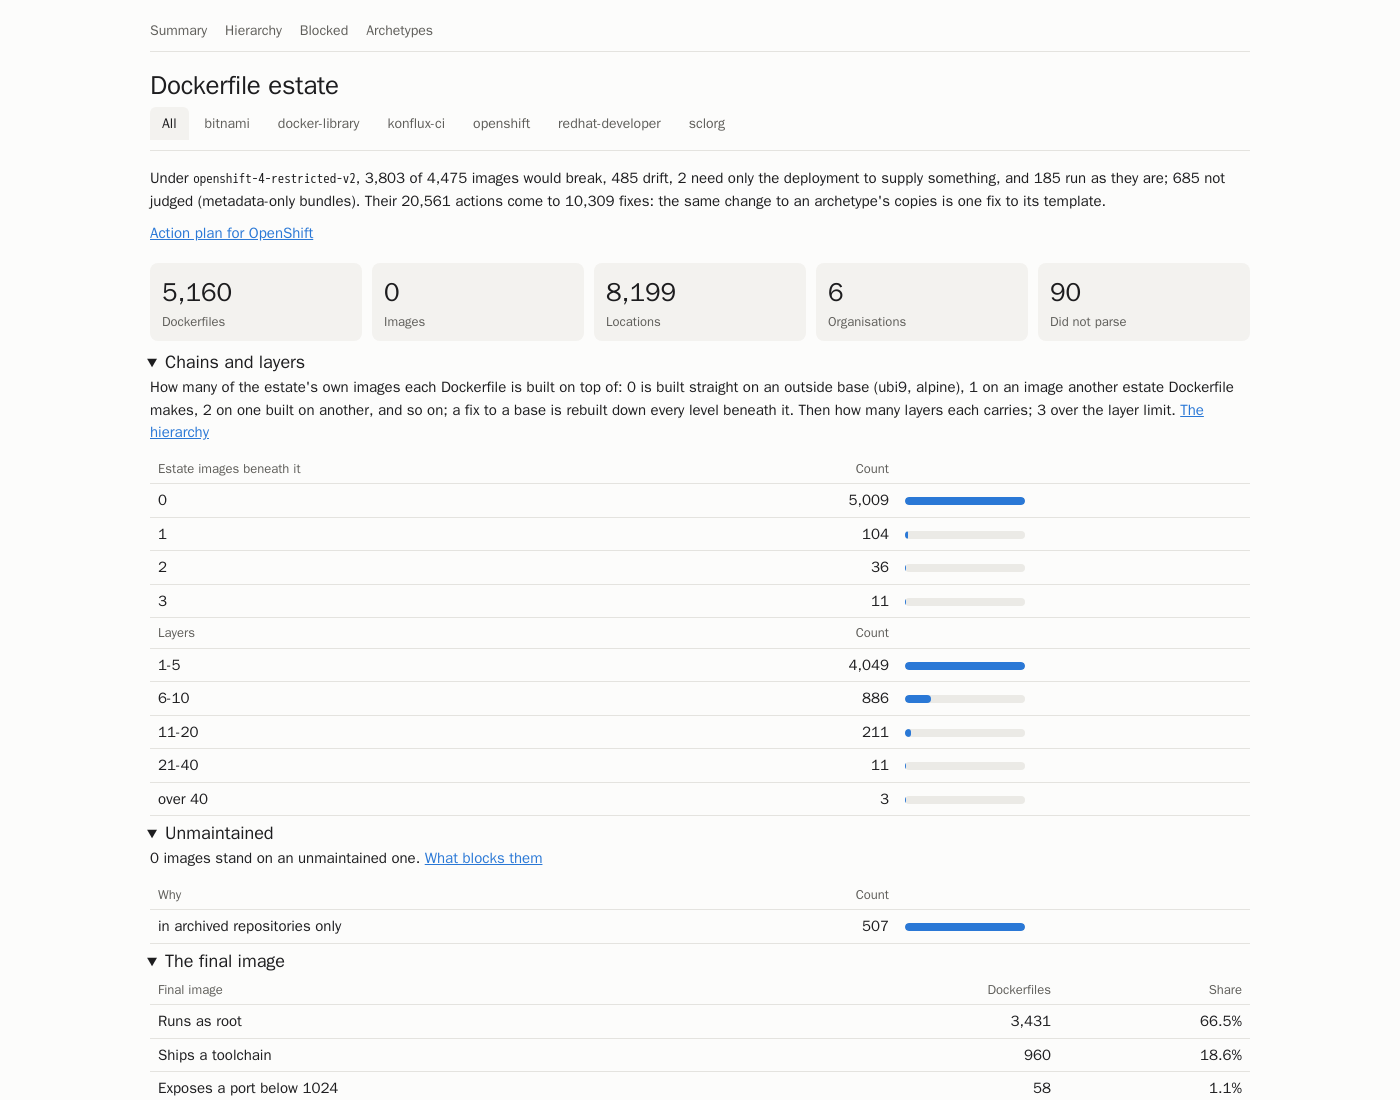
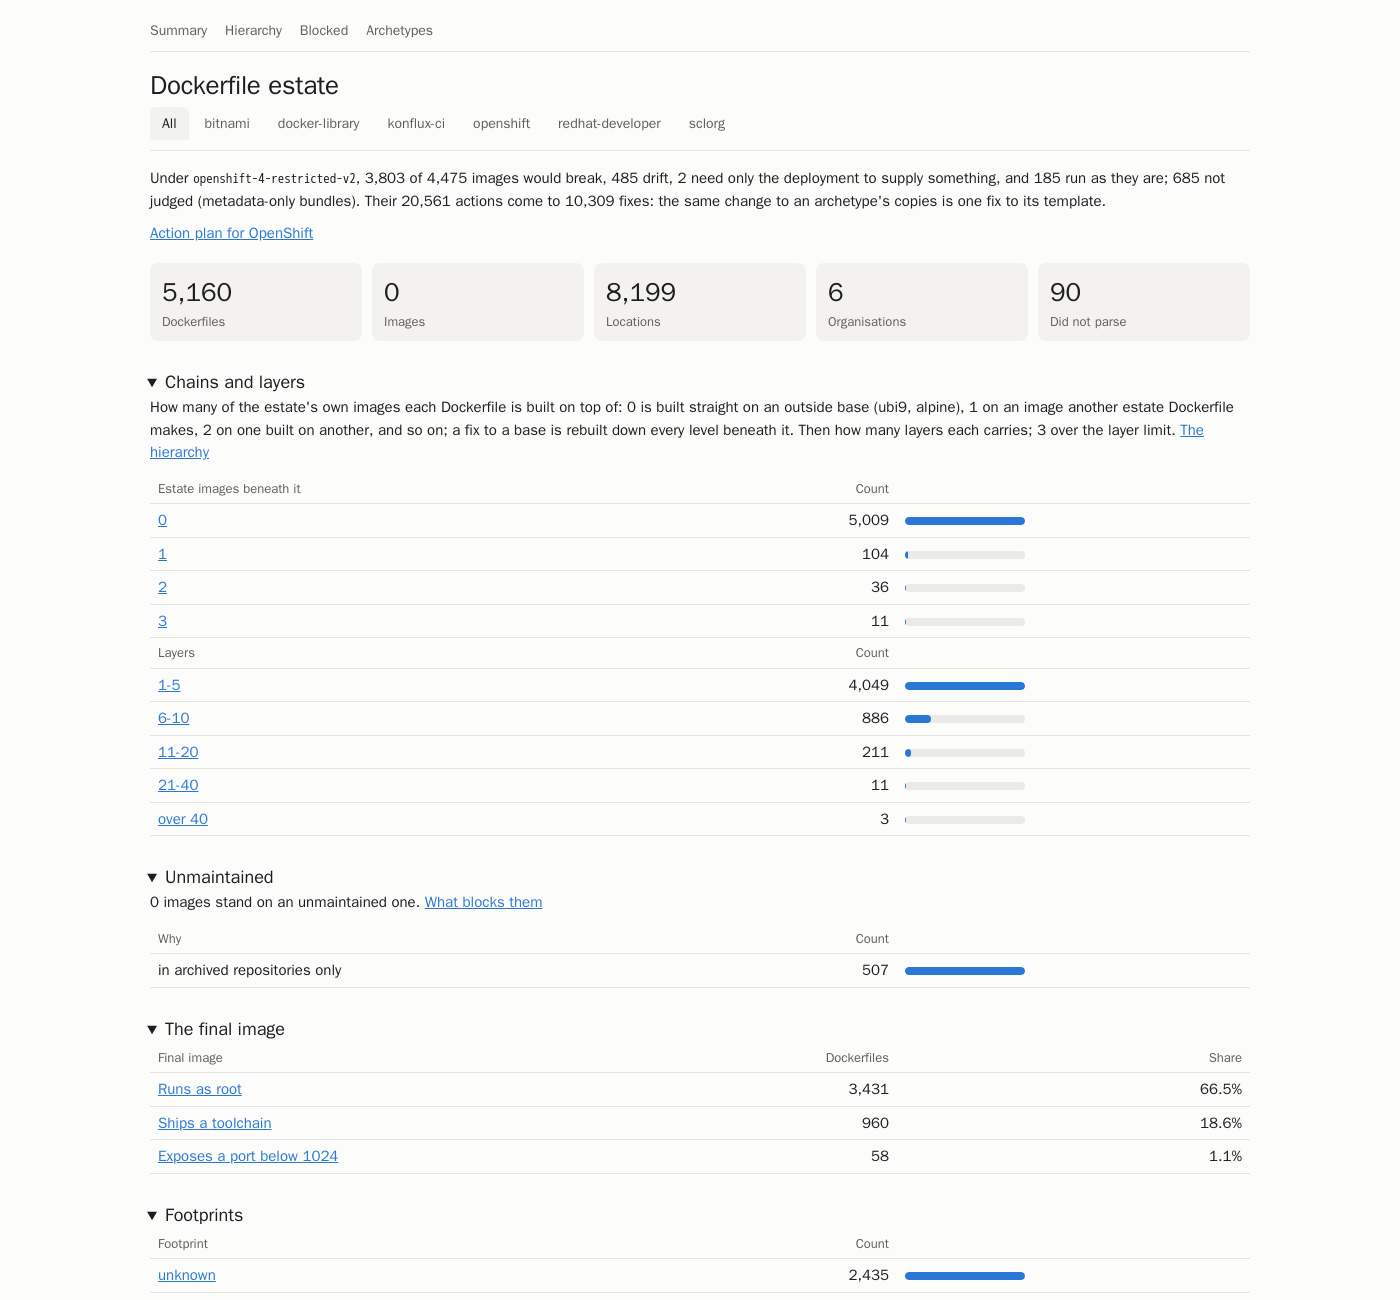
Count the programs each archetype starts, line up every count table, space the sections
An archetype stays a recipe; Programs counts the different start commands its
Dockerfiles have, and a Dockerfile's page splits the rest of its recipe into those
starting the same program and those starting another. The count tables share one
column width for their counts, sections have space between them, and the archetype
text says what an archetype is.

diff --git a/report/src/main/java/io/github/fiftieshousewife/dockerfileinventory/report/Pages.java b/report/src/main/java/io/github/fiftieshousewife/dockerfileinventory/report/Pages.java
@@ -28,6 +28,8 @@ final class Pages {
         Map<String, String> pages = new LinkedHashMap<>();
         Set<String> catalogued = entries.stream().map(CatalogueEntry::blobSha).collect(Collectors.toSet());
         List<String> organisations = List.copyOf(byOrganisation.keySet());
+        Map<String, String> programs = entries.stream().filter(entry -> Programs.of(entry) != null)
+                .collect(Collectors.toMap(CatalogueEntry::blobSha, Programs::of, (a, b) -> a));
         pages.put("index.html", Page.render("Dockerfile estate", "", Tabs.render(organisations, null, "")
                 + plan.map(p -> ActionPlanPage.lead(p)
                 + "<p><a href=\"openshift.html\">Action plan for OpenShift</a></p>").orElse("")
@@ -44,22 +46,23 @@ final class Pages {
                 Breakdowns.of(within))));
         pages.put("hierarchy.html", Page.render("Hierarchy", "", HierarchyPage.body(entries)));
         pages.put("blocked.html", Page.render("Blocked", "", BlockedPage.body(entries)));
-        pages.putAll(ranking(rows, catalogued));
+        pages.putAll(ranking(rows, catalogued, programs));
         Map<String, List<ActionPlanView.PlannedWorkload>> running = plan.map(p -> Deployments.byDockerfile(
                 p.workloads())).orElse(Map.of());
         entries.forEach(entry -> pages.put("dockerfiles/" + entry.blobSha() + ".html", Page.render(
                 entry.locations().getFirst().repository() + "/" + entry.locations().getFirst().path(), "../",
-                DockerfilePage.body(entry) + Deployments.section(entry.blobSha(),
+                DockerfilePage.body(entry, programs) + Deployments.section(entry.blobSha(),
                         running.getOrDefault(entry.blobSha(), List.of())))));
         return pages;
     }
 
-    static Map<String, String> ranking(ArchetypeRows archetypes, Set<String> catalogued) {
+    static Map<String, String> ranking(ArchetypeRows archetypes, Set<String> catalogued,
+                                       Map<String, String> programs) {
         List<Row> rows = archetypes.rows();
         int count = Math.max(1, (rows.size() + PER_PAGE - 1) / PER_PAGE);
         return IntStream.rangeClosed(1, count).boxed().collect(Collectors.toMap(Pages::rankingPath,
                 page -> Page.render("Archetypes", "", intro(archetypes) + pager(page, rows.size(), PER_PAGE)
-                        + ArchetypeTable.render(rows, (page - 1) * PER_PAGE, page * PER_PAGE, catalogued, "")
+                        + ArchetypeTable.render(rows, (page - 1) * PER_PAGE, page * PER_PAGE, catalogued, programs, "")
                         + pager(page, rows.size(), PER_PAGE)),
                 (a, b) -> a, LinkedHashMap::new));
     }
@@ -67,7 +70,8 @@ final class Pages {
     static String intro(ArchetypeRows rows) {
         return "<p class=\"lead\">" + escape(About.TEXT.get("Archetypes")) + "</p><p>" + count(rows.rows().size())
                 + " archetypes, largest first; " + count(rows.k80()) + " cover 80% of locations. Each links to the "
-                + "page of one of its Dockerfiles, which lists its near-duplicates.</p>"
+                + "page of one of its Dockerfiles, which lists the others built by the same recipe: an archetype is a "
+                + "recipe, and Programs counts the different things its Dockerfiles start.</p>"
                 + ArchetypeTable.apart(rows.apart());
     }
 

diff --git a/report/src/main/java/io/github/fiftieshousewife/dockerfileinventory/report/DockerfilePage.java b/report/src/main/java/io/github/fiftieshousewife/dockerfileinventory/report/DockerfilePage.java
@@ -3,6 +3,7 @@ package io.github.fiftieshousewife.dockerfileinventory.report;
 import static io.github.fiftieshousewife.dockerfileinventory.report.Html.escape;
 
 import java.util.List;
+import java.util.Map;
 import java.util.stream.Collectors;
 
 final class DockerfilePage {
@@ -11,6 +12,10 @@ final class DockerfilePage {
     }
 
     static String body(CatalogueEntry entry) {
+        return body(entry, Map.of());
+    }
+
+    static String body(CatalogueEntry entry, Map<String, String> programs) {
         String places = table(List.of("Repository", "Path", "Scope", "Last changed"), entry.locations().stream()
                 .map(place -> List.of(place.repository(), place.path(), place.scope(),
                         place.lastChanged() == null ? "" : place.lastChanged()))
@@ -20,7 +25,7 @@ final class DockerfilePage {
         }
         return "<h2>Where it is</h2>" + places + DockerfileSections.image(entry) + DockerfileSections.stages(entry)
                 + DockerfileSections.packages(entry) + links(entry) + DockerfileSections.images(entry)
-                + actions(entry);
+                + actions(entry, programs);
     }
 
     static String links(CatalogueEntry entry) {
@@ -29,7 +34,7 @@ final class DockerfilePage {
                 + "</p>";
     }
 
-    static String actions(CatalogueEntry entry) {
+    static String actions(CatalogueEntry entry, Map<String, String> programs) {
         Actions actions = entry.actions();
         if (actions == null) {
             return "";
@@ -38,8 +43,15 @@ final class DockerfilePage {
                 + "<li>A fix reaches " + actions.reach().dockerfiles() + " Dockerfiles in "
                 + actions.reach().repositories() + " repositories and " + actions.reach().images() + " images</li>"
                 + "<li>Converts: " + escape(actions.conversion().roundTrip()) + "</li>" + baseLag(actions.baseLag())
-                + "<li>Near-duplicates: " + actions.nearDuplicates().count() + " " + actions.nearDuplicates()
-                .blobShas().stream().map(DockerfilePage::link).collect(Collectors.joining(" ")) + "</li></ul>";
+                + recipe(Programs.split(programs.get(entry.blobSha()), actions.nearDuplicates().blobShas(), programs))
+                + "</ul>";
+    }
+
+    static String recipe(Programs.Split split) {
+        return "<li>Same recipe, same program: " + split.same().size() + " " + split.same().stream()
+                .map(DockerfilePage::link).collect(Collectors.joining(" ")) + "</li><li>Same recipe, another program: "
+                + split.other().size() + " " + split.other().stream().map(DockerfilePage::link)
+                .collect(Collectors.joining(" ")) + "</li>";
     }
 
     static String baseLag(BaseLags.BaseLag lag) {

diff --git a/report/src/test/java/io/github/fiftieshousewife/dockerfileinventory/report/ArchetypeTableTest.java b/report/src/test/java/io/github/fiftieshousewife/dockerfileinventory/report/ArchetypeTableTest.java
@@ -12,16 +12,16 @@ class ArchetypeTableTest {
 
     @Test
     void aRowLinksItsNameToItsFirstCataloguedDockerfilesPage() {
-        assertThat(ArchetypeTable.row(ROWS.rows().getFirst(), 3, Set.of("a1"), "")).isEqualTo(
+        assertThat(ArchetypeTable.row(ROWS.rows().getFirst(), 3, Set.of("a1"), Map.of(), "")).isEqualTo(
                 "<tr><td class=\"num\">1</td><td><a href=\"dockerfiles/a1.html\">ubi-minimal 9 with microdnf (git), "
                         + "numeric user</a></td><td class=\"num\">3</td><td>" + Html.meter(1.0) + "</td>"
                         + "<td class=\"num\">1</td><td><span class=\"chip\">acme 3</span></td>"
-                        + "<td>acme/api, 66.7%</td></tr>");
+                        + "<td>acme/api, 66.7%</td><td class=\"num\">0</td></tr>");
     }
 
     @Test
     void aRowWithNoCataloguedDockerfileNamesItsFirstLocationInstead() {
-        assertThat(ArchetypeTable.row(ROWS.rows().get(2), 3, Set.of(), "../"))
+        assertThat(ArchetypeTable.row(ROWS.rows().get(2), 3, Set.of(), Map.of(), "../"))
                 .contains("<td>debian 12, no packages, root<br><span class=\"note\">beta/x: Dockerfile</span></td>");
     }
 
@@ -34,7 +34,7 @@ class ArchetypeTableTest {
 
     @Test
     void theTableShowsItsSliceOfTheRowsWithBarsScaledToTheLargestOfAll() {
-        assertThat(ArchetypeTable.render(ROWS.rows(), 1, 3, Set.of(), ""))
+        assertThat(ArchetypeTable.render(ROWS.rows(), 1, 3, Set.of(), Map.of(), ""))
                 .startsWith("<div class=\"scroll\"><table><tr><th class=\"num\">Rank</th><th>Archetype</th>")
                 .contains("scratch, no packages, root").contains("debian 12")
                 .doesNotContain("ubi-minimal 9").contains(Html.meter(1.0 / 3));
@@ -46,5 +46,14 @@ class ArchetypeTableTest {
                 + "bundle (scratch, metadata only): 4 locations in 1 file; template, not a Dockerfile: 1 location in "
                 + "1 file; base set by a variable: 1 location in 1 file.</p>");
         assertThat(ArchetypeTable.apart(Map.of())).isEmpty();
+    }
+
+    @Test
+    void eachArchetypeSaysHowManyDifferentProgramsItsDockerfilesStart() {
+        ArchetypeRows.Row first = ROWS.rows().getFirst();
+        Map<String, String> programs = Map.of(first.blobShas().getFirst(), "/manager");
+
+        assertThat(ArchetypeTable.render(ROWS.rows(), 0, 1, Set.of(), programs, ""))
+                .contains("<th class=\"num\">Programs</th>", "<td class=\"num\">1</td></tr>");
     }
 }

diff --git a/report/src/main/java/io/github/fiftieshousewife/dockerfileinventory/report/ArchetypeTable.java b/report/src/main/java/io/github/fiftieshousewife/dockerfileinventory/report/ArchetypeTable.java
@@ -20,23 +20,24 @@ final class ArchetypeTable {
     private ArchetypeTable() {
     }
 
-    static String render(List<Row> rows, int from, int to, Set<String> pages, String up) {
+    static String render(List<Row> rows, int from, int to, Set<String> pages, Map<String, String> programs,
+                         String up) {
         int largest = rows.stream().mapToInt(Row::locations).max().orElse(1);
         return "<div class=\"scroll\"><table><tr><th class=\"num\">Rank</th><th>Archetype</th>"
                 + "<th class=\"num\">Locations</th><th></th><th class=\"num\">Files</th><th>Organisations</th>"
-                + "<th>Largest repository</th></tr>"
+                + "<th>Largest repository</th><th class=\"num\">Programs</th></tr>"
                 + rows.subList(Math.min(from, rows.size()), Math.min(to, rows.size())).stream()
-                .map(r -> row(r, largest, pages, up)).collect(Collectors.joining())
+                .map(r -> row(r, largest, pages, programs, up)).collect(Collectors.joining())
                 + "</table></div>";
     }
 
-    static String row(Row row, int largest, Set<String> pages, String up) {
+    static String row(Row row, int largest, Set<String> pages, Map<String, String> programs, String up) {
         Map.Entry<String, Integer> repository = row.repositories().entrySet().iterator().next();
         return "<tr><td class=\"num\">" + row.rank() + "</td><td>" + name(row, pages, up) + "</td><td class=\"num\">"
                 + count(row.locations()) + "</td><td>" + meter((double) row.locations() / largest) + "</td>"
                 + "<td class=\"num\">" + count(row.files()) + "</td><td>" + chips(row.organisations()) + "</td><td>"
                 + escape(repository.getKey()) + ", " + percent((double) repository.getValue() / row.locations())
-                + "</td></tr>";
+                + "</td><td class=\"num\">" + count(Programs.distinct(row.blobShas(), programs)) + "</td></tr>";
     }
 
     static String name(Row row, Set<String> pages, String up) {

diff --git a/report/src/main/java/io/github/fiftieshousewife/dockerfileinventory/report/Programs.java b/report/src/main/java/io/github/fiftieshousewife/dockerfileinventory/report/Programs.java
@@ -1,0 +1,40 @@
+package io.github.fiftieshousewife.dockerfileinventory.report;
+
+import java.util.List;
+import java.util.Map;
+import java.util.Objects;
+
+// What an image starts: its entrypoint, then its command. An archetype is one recipe; the programs it starts say how
+// many different things that recipe builds.
+final class Programs {
+
+    record Split(List<String> same, List<String> other) {
+
+        Split {
+            same = List.copyOf(same);
+            other = List.copyOf(other);
+        }
+    }
+
+    private Programs() {
+    }
+
+    static String of(CatalogueEntry.Command entrypoint, CatalogueEntry.Command cmd) {
+        String program = String.join(" ", java.util.stream.Stream.of(entrypoint, cmd).filter(Objects::nonNull)
+                .flatMap(command -> command.arguments().stream()).toList());
+        return program.isEmpty() ? "its base's" : program;
+    }
+
+    static String of(CatalogueEntry entry) {
+        return entry.image() == null ? null : of(entry.image().entrypoint(), entry.image().cmd());
+    }
+
+    static int distinct(List<String> blobShas, Map<String, String> programs) {
+        return (int) blobShas.stream().map(programs::get).filter(Objects::nonNull).distinct().count();
+    }
+
+    static Split split(String program, List<String> others, Map<String, String> programs) {
+        return new Split(others.stream().filter(sha -> Objects.equals(program, programs.get(sha))).toList(),
+                others.stream().filter(sha -> !Objects.equals(program, programs.get(sha))).toList());
+    }
+}

diff --git a/report/src/test/java/io/github/fiftieshousewife/dockerfileinventory/report/ProgramsTest.java b/report/src/test/java/io/github/fiftieshousewife/dockerfileinventory/report/ProgramsTest.java
@@ -1,0 +1,36 @@
+package io.github.fiftieshousewife.dockerfileinventory.report;
+
+import static org.assertj.core.api.Assertions.assertThat;
+import static org.junit.jupiter.api.Assertions.assertAll;
+
+import java.util.List;
+import java.util.Map;
+import org.junit.jupiter.api.Test;
+
+class ProgramsTest {
+
+    private static CatalogueEntry.Command exec(String... arguments) {
+        return new CatalogueEntry.Command("exec", List.of(arguments));
+    }
+
+    @Test
+    void aProgramIsTheEntrypointThenTheCommand() {
+        assertAll(
+                () -> assertThat(Programs.of(exec("/manager"), null)).isEqualTo("/manager"),
+                () -> assertThat(Programs.of(exec("/opm"), exec("serve", "/configs"))).isEqualTo("/opm serve /configs"),
+                () -> assertThat(Programs.of(null, exec("python", "app.py"))).isEqualTo("python app.py"),
+                () -> assertThat(Programs.of(null, null)).isEqualTo("its base's"));
+    }
+
+    @Test
+    void anArchetypeCountsTheDifferentProgramsItsDockerfilesStart() {
+        assertThat(Programs.distinct(List.of("a", "b", "c", "unknown"), Map.of("a", "/manager", "b", "/manager",
+                "c", "/operator"))).isEqualTo(2);
+    }
+
+    @Test
+    void theSameRecipeSplitsIntoTheSameProgramAndAnother() {
+        assertThat(Programs.split("/manager", List.of("b", "c", "d"), Map.of("b", "/manager", "c", "/operator")))
+                .isEqualTo(new Programs.Split(List.of("b"), List.of("c", "d")));
+    }
+}

diff --git a/report/src/main/java/io/github/fiftieshousewife/dockerfileinventory/report/Style.java b/report/src/main/java/io/github/fiftieshousewife/dockerfileinventory/report/Style.java
@@ -25,6 +25,7 @@ final class Style {
             p { margin: 0 0 10px; } p.lead { font-size: 16px; }
             details.section > summary { cursor: pointer; list-style-position: outside; margin-left: 1em; }
             details.section > summary h2 { display: inline; }
+            details.section { margin-top: 28px; }
             .note, p.legend { color: var(--muted); font-size: 13px; }
             ul { margin: 0 0 10px; padding-left: 20px; } li { margin: 2px 0; }
             table { border-collapse: collapse; width: 100%; font-variant-numeric: tabular-nums; }
@@ -53,7 +54,7 @@ final class Style {
             nav.tabs { display: flex; flex-wrap: wrap; gap: 4px; margin: 0 0 16px;
                        border-bottom: 1px solid var(--line); }
             table.tally { table-layout: fixed; }
-            table.tally th:first-child { width: 50%; } table.tally th.num { width: 15%; }
+            table.tally th:first-child { width: 50%; } table.tally th:nth-child(2) { width: 15%; }
             nav.tabs a { padding: 6px 12px; border-radius: 6px 6px 0 0; color: var(--muted); text-decoration: none; }
             nav.tabs a.current { color: var(--fg); background: var(--tile); font-weight: 600; }
             .tile .value { font-size: 26px; font-weight: 650; font-variant-numeric: tabular-nums; }

diff --git a/report/src/test/java/io/github/fiftieshousewife/dockerfileinventory/report/DockerfilePageTest.java b/report/src/test/java/io/github/fiftieshousewife/dockerfileinventory/report/DockerfilePageTest.java
@@ -7,6 +7,7 @@ import static org.assertj.core.api.Assertions.assertThat;
 import static org.junit.jupiter.api.Assertions.assertAll;
 
 import java.util.List;
+import java.util.Map;
 import org.junit.jupiter.api.Test;
 
 class DockerfilePageTest {
@@ -63,5 +64,13 @@ class DockerfilePageTest {
     void aBaseBehindItsNewestTagSaysBoth() {
         assertThat(DockerfilePage.baseLag(new BaseLags.BaseLag("ubi9/ubi", "9.4", "9.6")))
                 .isEqualTo("<li>Base ubi9/ubi: 9.4, newest 9.6</li>");
+    }
+
+    @Test
+    void theOthersBuiltByTheSameRecipeAreSplitByWhetherTheyStartTheSameProgram() {
+        String body = DockerfilePage.actions(entry(), Map.of("aaa", "/manager", "ddd", "/operator"));
+
+        assertThat(body).contains("Same recipe, same program: 0", "Same recipe, another program: 1",
+                "href=\"ddd.html\"");
     }
 }

diff --git a/report/src/main/java/io/github/fiftieshousewife/dockerfileinventory/report/About.java b/report/src/main/java/io/github/fiftieshousewife/dockerfileinventory/report/About.java
@@ -8,7 +8,8 @@ final class About {
     }
 
     static final Map<String, String> TEXT = Map.of("Archetypes",
-            "An archetype is a family of Dockerfiles that build essentially the same image "
-            + "(same base, nearly the same packages, user and ports) even when their text differs. Few archetypes "
-            + "covering many Dockerfiles means a few maintained templates could replace them.");
+            "An archetype is a family of Dockerfiles built by the same recipe (the same base, nearly the same "
+            + "packages, user and ports) even when their text differs, whatever program each one starts. Few "
+            + "archetypes covering many Dockerfiles means a few maintained templates could replace them, with the "
+            + "program as a parameter.");
 }

diff --git a/report/src/main/java/io/github/fiftieshousewife/dockerfileinventory/report/OverviewPage.java b/report/src/main/java/io/github/fiftieshousewife/dockerfileinventory/report/OverviewPage.java
@@ -56,7 +56,8 @@ final class OverviewPage {
 
     static String shares(EstateFigures f, String list) {
         double all = Math.max(1, f.dockerfiles());
-        return "<table><tr><th>Final image</th><th class=\"num\">Dockerfiles</th><th class=\"num\">Share</th></tr>"
+        return "<table class=\"tally\"><tr><th>Final image</th><th class=\"num\">Dockerfiles</th>"
+                + "<th class=\"num\">Share</th></tr>"
                 + EstateFigures.largestFirst(Map.of("Runs as root", f.root(), "Exposes a port below 1024",
                         f.lowPort(), "Ships a toolchain", f.toolchain())).entrySet().stream()
                 .map(e -> share(labelled(e.getKey(), e.getValue() == 0 ? null : list), e.getValue(), all))
